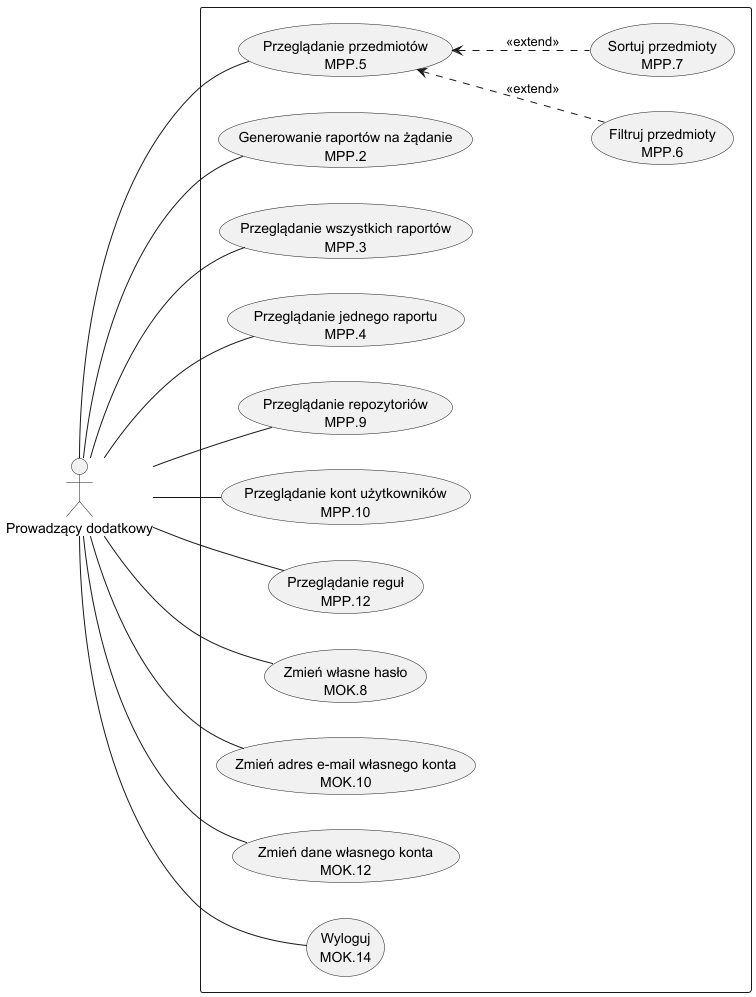
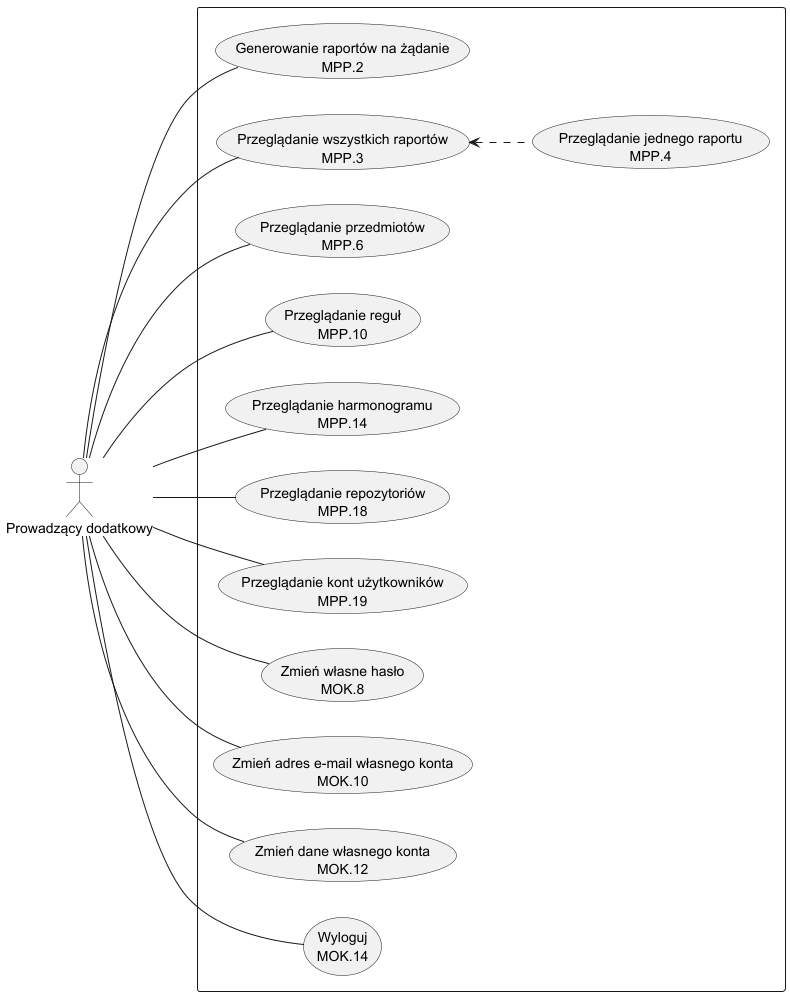
Sumatywny: Poprawa diagramów przypadków użycia, słownika aktorów + ssbd (doc#16)

diff --git a/sumatywny/etap1/13przypadkiuzycia.md b/sumatywny/etap1/13przypadkiuzycia.md
@@ -5,11 +5,11 @@ Tabela 1.3.1 Słownik aktorów w systemie
 |Aktor|Opis roli aktora|Przypadki użycia aktora|
 |-|-|-|
 |Gość|Użytkownik nieuwierzytelniony, aby skorzystać z funkcjonalnośći aplikacji należy zarejestrować się lub zalogować się na obecnie istniejące konto z innym poziomem dostępu.|Z wyjątkiem Modułu Obsługi Kont - brak|
-|Administrator|Administrator to jedyny aktor posiadający uprawnienia pozwalające na zarządzanie wszystkimi dostępnymi kontami w systemie.|MPP.22 - Zmiana kierownika przedmiotu|
-|Student|Student to uczeń, który realizuje dany przedmiot lub przedmioty na semestrze, gdzie jest zobligowany do zamieszczania kodu na repozytorium.|MPP.19 - Sprawdzenie swojego kodu<br />MPP.20 - Przeglądanie swoich raportów|
-|Prowadzący|Prowadzący to nauczyciel akademicki, który zarządza dostępnymi przedmiotami wraz z ich regułami oraz harmonogramami i monitoruje wyniki Studentów względem możliwego plagiatu.|MPP.1 - Generowanie raportu po ustawieniu harmonogramu<br />MPP.2 - Generowanie raportu na żądanie<br />MPP.3 - Przeglądanie wszystkich raportów<br />MPP.4 - Przeglądanie jednego raportu<br />MPP.5 - Przeglądanie przedmiotów<br />MPP.6 - Filtrowanie przedmiotów<br />MPP.7 - Sortowanie przedmiotów<br />MPP.8 - Usuwanie raportów<br />MPP.9 - Przeglądanie repozytoriów<br />MPP.10 - Przeglądanie kont użytkowników<br />MPP.11 - Przeglądanie harmonogramu<br />MPP.12 - Przeglądanie reguł<br />MPP.13 - Tworzenie przedmiotu<br />MPP.14 - Edycja przedmiotu<br />MPP.15 - Usuwanie przedmiotu<br />MPP.16 - Tworzenie reguł<br />MPP.17 - Edycja reguł<br />MPP.18 - Usuwanie reguł|
-|Prowadzący dodatkowy|Prowadzący dodatkowy to nauczyciel akademicki posiadający jedynie prawo do odczytu w danym przedmiocie.|MPP.2 - Generowanie raportu na żądanie<br />MPP.3 - Przeglądanie wszystkich raportów<br />MPP.4 - Przeglądanie jednego raportu<br />MPP.5 - Przeglądanie przedmiotów<br />MPP.6 - Filtrowanie przedmiotów<br />MPP.7 - Sortowanie przedmiotów<br />MPP.9 - Przeglądanie repozytoriów<br />MPP.10 - Przeglądanie kont użytkowników<br />MPP.12 - Przeglądanie reguł|
-|System|System to aktor w systemie odpowiadający za automatyczne wykonywanie zaplanowanych akcji bez dodatkowego działania Prowadzącego.|MPP.21 - Wygeneruj raport według harmonogramu|
+|Administrator|Administrator to jedyny aktor posiadający uprawnienia pozwalające na zarządzanie wszystkimi dostępnymi kontami w systemie.|MPP.24 - Zmiana kierownika przedmiotu|
+|Student|Student to uczeń, który realizuje dany przedmiot lub przedmioty na semestrze, gdzie jest zobligowany do zamieszczania kodu na repozytorium.|MPP.20 - Sprawdzenie swojego kodu<br />MPP.21 - Przeglądanie swoich raportów|
+|Prowadzący|Prowadzący to nauczyciel akademicki, który zarządza dostępnymi przedmiotami wraz z ich regułami oraz harmonogramami i monitoruje wyniki Studentów względem możliwego plagiatu.|MPP.1 - Generowanie raportu po ustawieniu harmonogramu<br />MPP.2 - Generowanie raportu na żądanie<br />MPP.3 - Przeglądanie wszystkich raportów<br />MPP.4 - Przeglądanie jednego raportu<br />MPP.5 - Usuwanie raportów<br />MPP.6 - Przeglądanie przedmiotów<br />MPP.7 - Tworzenie przedmiotu<br />MPP.8 - Edycja przedmiotu<br />MPP.9 - Usuwanie przedmiotu<br />MPP.10 - Przeglądanie reguł<br />MPP.11 - Tworzenie reguł<br />MPP.12 - Edycja reguł<br />MPP.13 - Usuwanie reguł<br />MPP.14 - Przeglądanie harmonogramu<br />MPP.15 - Tworzenie harmonogramu<br />MPP.16 - Edycja harmonogramu<br />MPP.17 - Usuwanie harmonogramu<br />MPP.18 - Przeglądanie repozytoriów<br />MPP.19 - Przeglądanie kont użytkowników|
+|Prowadzący dodatkowy|Prowadzący dodatkowy to nauczyciel akademicki posiadający jedynie prawo do odczytu w danym przedmiocie.|MPP.2 - Generowanie raportu na żądanie<br />MPP.3 - Przeglądanie wszystkich raportów<br />MPP.4 - Przeglądanie jednego raportu<br />MPP.6 - Przeglądanie przedmiotów<br />MPP.10 - Przeglądanie reguł<br />MPP.18 - Przeglądanie repozytoriów<br />MPP.19 - Przeglądanie kont użytkowników|
+|System|System to aktor w systemie odpowiadający za automatyczne wykonywanie zaplanowanych akcji bez dodatkowego działania Prowadzącego.|MPP.22 - Wygeneruj raport według harmonogramu<br />MPP.23 - Obliczenie zagregowanych wartości|
 
 <br>
 

diff --git a/ssbd/1wstepny/02moduly.md b/ssbd/1wstepny/02moduly.md
@@ -696,6 +696,42 @@ Tabela 1.2.37 Scenariusz dla przypadku użycia MPP.22
 |Specjalne wymagania| |
 |Notatki i kwestie| |
 
+Tabela 1.2.38 Scenariusz dla przypadku użycia MPP.23
+
+|Pole|Treść|
+|--|--|
+|Oznaczenie|MPP.23|
+|Przypadek użycia| |
+|Twórca| |
+|Poziom ważności| |
+|Typ przypadku użycia| |
+|Aktorzy| |
+|Krótki opis| |
+|Warunki wstępne| |
+|Warunki końcowe| |
+|Główny przepływ zdarzeń| |
+|Alternatywne przepłīwy zdarzeń| |
+|Specjalne wymagania| |
+|Notatki i kwestie| |
+
+Tabela 1.2.39 Scenariusz dla przypadku użycia MPP.24
+
+|Pole|Treść|
+|--|--|
+|Oznaczenie|MPP.24|
+|Przypadek użycia| |
+|Twórca| |
+|Poziom ważności| |
+|Typ przypadku użycia| |
+|Aktorzy| |
+|Krótki opis| |
+|Warunki wstępne| |
+|Warunki końcowe| |
+|Główny przepływ zdarzeń| |
+|Alternatywne przepłīwy zdarzeń| |
+|Specjalne wymagania| |
+|Notatki i kwestie| |
+
 **Lista modułów funkcjonalnych i przypadków użycia**
 
 - MOK.1 - Rejestracja konta użytkownika
@@ -716,22 +752,23 @@ Tabela 1.2.37 Scenariusz dla przypadku użycia MPP.22
 - MPP.2 - Generowanie raportu na żądanie
 - MPP.3 - Przeglądanie wszystkich raportów
 - MPP.4 - Przeglądanie jednego raportu
-- MPP.5 - Przeglądanie przedmiotów
-- MPP.6 - Filtrowanie przedmiotów
-- MPP.7 - Sortowanie przedmiotów
-- MPP.8 - Usuwanie raportów
-- MPP.9 - Przeglądanie repozytoriów
-- MPP.10 - Przeglądanie kont użytkowników
-- MPP.11 - Przeglądanie harmonogramu
-- MPP.12 - Przeglądanie reguł
-- MPP.13 - Tworzenie przedmiotu
-- MPP.14 - Edycja przedmiotu
-- MPP.15 - Usuwanie przedmiotu
-- MPP.16 - Tworzenie reguł
-- MPP.17 - Edycja reguł
-- MPP.18 - Usuwanie reguł
-- MPP.19 - Sprawdzenie swojego kodu
-- MPP.20 - Przeglądanie swoich raportów
-- MPP.21 - Wygeneruj raport według harmonogramu
-- MPP.22 - Zmiana kierownika przedmiotu
-
+- MPP.5 - Usuwanie raportów
+- MPP.6 - Przeglądanie przedmiotów
+- MPP.7 - Tworzenie przedmiotu
+- MPP.8 - Edycja przedmiotu
+- MPP.9 - Usuwanie przedmiotu
+- MPP.10 - Przeglądanie reguł
+- MPP.11 - Tworzenie reguł
+- MPP.12 - Edycja reguł
+- MPP.13 - Usuwanie reguł
+- MPP.14 - Przeglądanie harmonogramu
+- MPP.15 - Tworzenie harmonogramu
+- MPP.16 - Edycja harmonogramu
+- MPP.17 - Usuwanie harmonogramu
+- MPP.18 - Przeglądanie repozytoriów
+- MPP.19 - Przeglądanie kont użytkowników
+- MPP.20 - Sprawdzenie swojego kodu
+- MPP.21 - Przeglądanie swoich raportów
+- MPP.22 - Wygeneruj raport według harmonogramu
+- MPP.23 - Obliczenie zagregowanych wartości
+- MPP.24 - Zmiana kierownika przedmiotu
